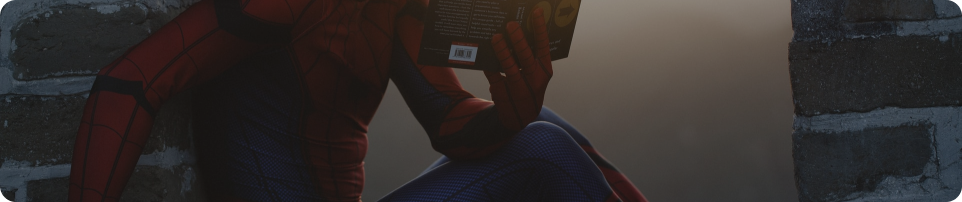
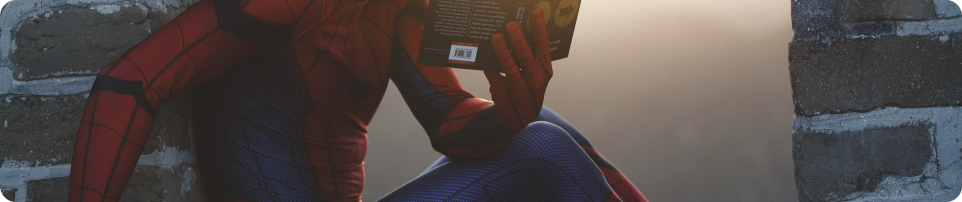
add aside

diff --git a/css/style.css b/css/style.css
@@ -168,7 +168,7 @@ input {
     display: flex;
     flex-direction: column;
     justify-content: space-between;
-    background: url(../img/main-display__trailer_img.png);
+    background: linear-gradient(0deg, rgba(0, 0, 0, 0.4), rgba(0, 0, 0, 0.4)), url(../img/main-display__trailer_img.png);
     border-radius: 1.6rem;
     background-repeat: no-repeat;
     background-size: cover;
@@ -205,7 +205,7 @@ input {
     left: 50%;
     transform: translate(-50%, -50%);
     background: rgba(255, 255, 255, 0.07);
-    backdrop-filter: blur(0.5rem);
+    backdrop-filter: blur(1.2rem);
     border-radius: 50%;
     align-items: center;
     display: flex;
@@ -217,7 +217,8 @@ input {
 .button-play {
     width: 2.7rem;
     height: 3rem;
-    background: url(../img/play_btn.png) no-repeat top right;
+    background: url(../img/play.svg) no-repeat top right;
+    z-index: 20;
 }
 
 .title {
@@ -282,7 +283,7 @@ input {
     position: relative;
     width: 70%;
     height: 25.1rem;
-    background: url(../img/tranding-continue.png) no-repeat center;
+    background: linear-gradient(0deg, rgba(0, 0, 0, 0.4), rgba(0, 0, 0, 0.4)), url(../img/tranding-continue.png) no-repeat center;
     border-radius: 1.6rem;
     display: flex;
     align-items: flex-end;
@@ -372,14 +373,14 @@ input {
     display: flex;
 }
 
-.popular div:not(:last-child){
+.popular div:not(:last-child) {
     margin-right: 5rem;
 }
 
 .popular__item {
     width: 28.6rem;
     height: 19.2rem;
-    background: url(../img/netflix.png) center no-repeat;
+    background: linear-gradient(0deg, rgba(0, 0, 0, 0.4), rgba(0, 0, 0, 0.4)), url(../img/netflix.png) no-repeat center ;
     border-radius: 1.6rem;
     display: flex;
     align-items: flex-end;
@@ -442,6 +443,162 @@ input {
 
 .popular__raiting img {
     margin-right: 0.4rem;
+}
+
+.aside {
+    padding-right: 5.9rem;
+}
+
+.aside__title {
+    display: flex;
+    align-items: center;
+    justify-content: space-between;
+    margin-bottom: 2.6rem;
+}
+
+.aside__sort {
+    display: flex;
+}
+
+.aside__sort-img {
+    display: flex;
+    flex-direction: column;
+    margin-left: 1rem;
+}
+
+.aside__sort-img img:not(:last-child) {
+    margin-bottom: .2rem;
+}
+
+.aside__sort-img img {
+    width: .9rem;
+    height: .9rem;
+    cursor: pointer;
+}
+
+.aside__header {
+    font-weight: 400;
+    font-size: 2rem;
+    line-height: 115%;
+}
+
+.aside__sort-text {
+    font-weight: 400;
+    font-size: 14px;
+    line-height: 114%;
+    color: rgba(255, 255, 255, 0.4);
+    margin-right: 1.5rem;
+}
+
+.aside__sort-select {
+    display: flex;
+    font-weight: 400;
+    font-size: 14px;
+    line-height: 114%;
+}
+
+.aside__item {
+    position: relative;
+    margin-top: 3rem;
+    width: 100%;
+    height: 22.6rem;
+    background: linear-gradient(0deg, rgba(0, 0, 0, 0.4), rgba(0, 0, 0, 0.4)), url(../img/batman.png);
+    border-radius: 1.5rem;
+    padding: 1.9rem;
+    display: flex;
+    flex-direction: column;
+    justify-content: space-between;
+}
+
+.aside__views {
+    font-weight: 700;
+    font-size: 1.6rem;
+    line-height: 118%;
+}
+
+.aside__footer-text {
+    font-weight: 700;
+    font-size: 2.4rem;
+    line-height: 116%;
+}
+
+.aside__footer-date {
+    font-weight: 700;
+    font-size: 1.4rem;
+    line-height: 114%;
+}
+
+.aside__bottom {
+    margin-top: 4rem;
+    padding-top: 2.5rem;
+    padding-left: 0;
+    padding-bottom: 2rem;
+    background: rgba(255, 255, 255, 0.02);
+}
+
+.aside__favourite-text {
+    font-weight: 400;
+    font-size: 2rem;
+    line-height: 115%;
+    margin-bottom: 2rem;
+}
+
+.aside__gener {
+    margin-bottom: 2rem;
+    margin-right: 3rem;
+    padding: .5rem 1rem;
+    font-weight: 400;
+    font-size: 1.2rem;
+    line-height: 116%;
+    border-radius: 3rem;
+}
+
+.aside__gener-items {
+    display: flex;
+    flex-wrap: wrap;
+    align-content: space-between;
+    padding-right: 5rem;
+}
+
+.perple {
+    background: #8066F6;
+}
+
+.orange {
+    background: #E1784F;
+}
+
+.green {
+    background: #63CFE1;
+}
+
+.gray {
+    background: #2B2A2F;
+}
+
+.aside__favourite {
+    margin-bottom: 6rem;
+}
+
+.aside__add {
+    display: flex;
+    align-items:center;
+    font-weight: 400;
+    font-size: 1.4rem;
+    line-height: 114%;
+    margin-bottom: 2rem;
+}
+
+.aside__add-round {
+    background: #2B2A2F;
+    border-radius: 50%;
+    width: 1.8rem;
+    height: 1.8rem;
+    display:flex;
+    align-content:center;
+    justify-content: center;
+    padding-top: .1rem;
+    margin-right: .5rem;
 }
 
 /* grid */

diff --git a/index.html b/index.html
@@ -43,6 +43,66 @@
         </header>
 
         <aside class="aside box-init">
+            <div class="aside__title">
+                <div class="aside__header">New trailers</div>
+                <div class="aside__sort">
+                    <div class="aside__sort-text">Sort By</div>
+                    <div class="aside__sort-select">
+                        <span>Today</span>
+                        <div class="aside__sort-img">
+                            <img src="/img/up.svg" alt="">
+                            <img src="/img/down.svg" alt="">
+                        </div>
+                    </div>
+                </div>
+            </div>
+
+            <div class="aside__item">
+                <div class="aside__views">Views 4.5k</div>
+                <div class="button-play__wrap">
+                    <button class="button-play "></button>
+                </div>
+                <div class="aside__footer">
+                    <div class="aside__footer-text">Batman 2022</div>
+                    <div class="aside__footer-date">Dec 2022</div>
+                </div>
+            </div>
+
+            <div class="aside__item">
+                <div class="aside__views">Views 4.5k</div>
+                <div class="button-play__wrap">
+                    <button class="button-play"></button>
+                </div>
+                <div class="aside__footer">
+                    <div class="aside__footer-text">Batman 2022</div>
+                    <div class="aside__footer-date">Dec 2022</div>
+                </div>
+            </div>
+
+            <div class="aside__bottom">
+                <div class="aside__favourite">
+                    <div class="aside__favourite-text">Favourite genres</div>
+                    <div class="aside__gener-items">
+                        <div class="aside__gener perple">Action</div>
+                        <div class="aside__gener orange">Western</div>
+                        <div class="aside__gener perple">Adventures</div>
+                        <div class="aside__gener orange">Drama</div>
+                        <div class="aside__gener green">Comedy</div>
+                    </div>
+                </div>
+                <div class="aside__footer">
+                    <div class="aside__add">
+                        <div class="aside__add-round">+</div>
+                        <span>Add your favourite genres</span>
+                    </div>
+                    <div class="aside__gener-items">
+                        <div class="aside__gener gray">Comedy</div>
+                        <div class="aside__gener gray">Drama</div>
+                        <div class="aside__gener gray">Comedy</div>
+                    </div>
+                </div>
+            </div>
+
         </aside>
 
         <main class="main">
